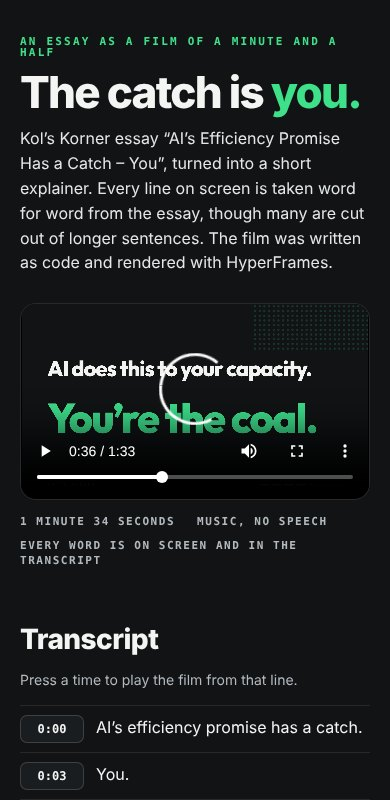
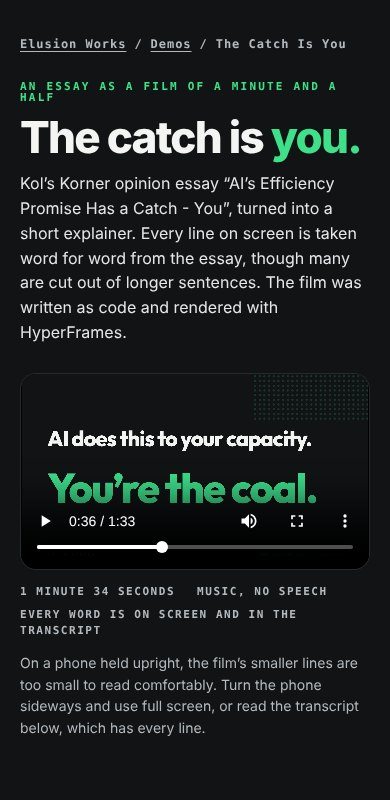
efficiency-catch: act on the outside review
Bring the film on screen before a transcript time plays it (reduced
motion respected, focus kept), say so when the film will not play or
load, add links home, a source link and sharing details, call the
essay an opinion piece and the 1x/2x graphics illustrative, add a note
for phones, tie each transcript line to its own slot in check.mjs,
retake the pictures without the loading spinner, and record the
outside review in REVIEW.md.

Claude-Session: https://claude.ai/code/session_013B6jEDQfd86RBiChYmYX6U

diff --git a/demos/efficiency-catch/index.html b/demos/efficiency-catch/index.html
@@ -9,6 +9,15 @@
 <link rel="icon" href="../../assets/favicon.svg" type="image/svg+xml">
 <!-- Unlisted until release is approved: remove the next line, then add the gallery card and sitemap entry. -->
 <meta name="robots" content="noindex">
+<meta property="og:type" content="video.other">
+<meta property="og:title" content="The Catch Is You: an essay as a short film">
+<meta property="og:description" content="A Kol's Korner opinion essay about AI and burnout, turned into a minute-and-a-half explainer film. With a full transcript.">
+<meta property="og:url" content="https://elusionworks.com/demos/efficiency-catch/">
+<meta property="og:image" content="https://elusionworks.com/demos/efficiency-catch/poster.jpg">
+<meta property="og:image:width" content="1920">
+<meta property="og:image:height" content="1080">
+<meta property="og:image:alt" content="The film's opening title: AI's efficiency promise has a catch. You.">
+<meta name="twitter:card" content="summary_large_image">
 <style>
   :root { --bg:#111315; --panel:#1a1d20; --line:rgba(255,255,255,.16); --ink:#f4f5f3; --muted:#b3babf; --accent:#3fe08a; --accent-ink:#06210f;
     --sans:"Helvetica Neue","Segoe UI",system-ui,-apple-system,Roboto,Arial,sans-serif; --mono:ui-monospace,"SF Mono","Cascadia Mono",Menlo,Consolas,monospace; color-scheme:dark; }
@@ -18,6 +27,11 @@
   main { max-width:1080px; margin:0 auto; padding:56px max(20px,env(safe-area-inset-right)) 96px max(20px,env(safe-area-inset-left)); }
   a { color:var(--ink); text-underline-offset:3px; }
   :focus-visible { outline:2px solid var(--accent); outline-offset:2px; }
+  .crumbs { margin:0 0 28px; font:600 12px/1.4 var(--mono); letter-spacing:.08em; color:var(--muted); }
+  .crumbs a { color:var(--muted); } .crumbs a:hover { color:var(--ink); } .crumbs span { margin:0 8px; }
+  .film { scroll-margin-top:8px; }
+  .oops:not(:empty) { margin:12px 0 0; padding:12px 14px; border:1px solid var(--accent); border-radius:10px; }
+  .oops button { margin-left:10px; }
   .eyebrow { margin:0; font:600 11px/1 var(--mono); letter-spacing:.2em; text-transform:uppercase; color:var(--accent); }
   h1 { margin:14px 0 14px; font-size:clamp(44px,9vw,104px); line-height:.92; font-weight:800; letter-spacing:-.04em; }
   h1 span { color:var(--accent); }
@@ -37,14 +51,16 @@
   .made p, .made li { color:#d7dce0; } .made ul { padding-left:20px; margin:0 0 14px; } .made li { margin:0 0 8px; }
   .note { font-size:14px; color:var(--muted); }
   code { font:13px var(--mono); padding:1px 5px; border-radius:5px; background:rgba(255,255,255,.08); }
+  @media (min-width:821px) { .phone-note { display:none; } }
   @media (max-width:820px) { .cols { grid-template-columns:minmax(0,1fr); gap:8px; } main { padding-top:36px; } .lede { font-size:16px; } }
 </style>
 </head>
 <body>
 <main>
+  <nav class="crumbs" aria-label="Breadcrumb"><a href="../../">Elusion Works</a><span aria-hidden="true">/</span><a href="../">Demos</a><span aria-hidden="true">/</span>The Catch Is You</nav>
   <p class="eyebrow">An essay as a film of a minute and a half</p>
   <h1>The catch is <span>you.</span></h1>
-  <p class="lede">Kol&rsquo;s Korner essay &ldquo;AI&rsquo;s Efficiency Promise Has a Catch &ndash; You&rdquo;, turned into a short explainer. Every line on screen is taken word for word from the essay, though many are cut out of longer sentences. The film was written as code and rendered with HyperFrames.</p>
+  <p class="lede">Kol&rsquo;s Korner opinion essay &ldquo;AI&rsquo;s Efficiency Promise Has a Catch - You&rdquo;, turned into a short explainer. Every line on screen is taken word for word from the essay, though many are cut out of longer sentences. The film was written as code and rendered with HyperFrames.</p>
 
   <div class="film">
     <video id="film" controls playsinline preload="metadata" poster="poster.jpg" width="1920" height="1080" aria-label="The Catch Is You, a film of a minute and a half" aria-describedby="film-note">
@@ -55,6 +71,8 @@
   <ul class="facts" id="film-note">
     <li>1 minute 34 seconds</li><li>Music, no speech</li><li>Every word is on screen and in the transcript</li>
   </ul>
+  <div class="oops" id="oops" role="status"></div>
+  <p class="note phone-note">On a phone held upright, the film&rsquo;s smaller lines are too small to read comfortably. Turn the phone sideways and use full screen, or read the transcript below, which has every line.</p>
 
   <div class="cols">
     <section aria-labelledby="tr-h">
@@ -89,23 +107,34 @@
     <section class="made" aria-labelledby="made-h">
       <h2 id="made-h">How it was made</h2>
       <ul>
-        <li><strong>Words.</strong> Cut down from Kol Tregaskes&rsquo;s essay, published on Kol&rsquo;s Korner in February 2026. Every line is the essay&rsquo;s own wording; nothing was added.</li>
-        <li><strong>Pictures.</strong> Seven scenes, each one a small web page: type, a few drawn shapes and timed moves. No stock footage, no generated images.</li>
+        <li><strong>Words.</strong> Cut down from Kol Tregaskes&rsquo;s opinion essay, published on <a href="https://koltregaskes.com/">Kol&rsquo;s Korner</a> in February 2026. Every line is the essay&rsquo;s own wording; nothing was added. It is one person&rsquo;s argument, not a study.</li>
+        <li><strong>Pictures.</strong> Seven scenes, each one a small web page: type, a few drawn shapes and timed moves. No stock footage, no generated images. The bars and meters marked 1&times; and 2&times; illustrate the essay&rsquo;s own example; they are not measured data.</li>
         <li><strong>Timing.</strong> One hundred beats a minute. Every scene starts on a bar, and the hard lines land on the beat.</li>
         <li><strong>Music.</strong> A quiet backing track made by a short script, so nothing is borrowed and nothing needs a licence.</li>
         <li><strong>Checks.</strong> HyperFrames&rsquo; own checker passes with no errors and no warnings: structure, layout, contrast, reading time and sound.</li>
       </ul>
-      <p class="note">The film&rsquo;s source is in this demo&rsquo;s <code>tools/film</code> folder. Change a line of text there and render it again.</p>
+      <p class="note">The film&rsquo;s source is in this demo&rsquo;s <code>tools/film</code> folder, which is not served with the page: <a href="https://github.com/koltregaskes/elusion-works/tree/main/demos/efficiency-catch/tools/film">see it in the site&rsquo;s repository</a>. Change a line of text there and render it again.</p>
       <p class="note">After a post by Matt Shumer about turning an essay into an explainer video: <a href="https://x.com/mattshumer_/status/2119884041331892403" rel="noopener">see the post</a>. This is an original film.</p>
     </section>
   </div>
 </main>
 <script>
-  // The transcript drives the film: press a time to play from that line, and the line being shown is marked as it plays.
+  // The transcript drives the film: press a time to bring the film into view and play it from that line; the line being shown is marked as it plays.
   (function () {
-    const film = document.getElementById('film'), rows = [...document.querySelectorAll('#lines li')], times = rows.map(r => Number(r.querySelector('.t').dataset.at));
+    const film = document.getElementById('film'), box = film.parentElement, oops = document.getElementById('oops'), rows = [...document.querySelectorAll('#lines li')], times = rows.map(r => Number(r.querySelector('.t').dataset.at));
     const mark = () => { let now = -1; for (let i = 0; i < times.length; i++) if (film.currentTime + 0.05 >= times[i]) now = i; if (!(film.currentTime > 0)) now = -1; rows.forEach((r, i) => { r.classList.toggle('now', i === now); if (i === now) r.setAttribute('aria-current', 'true'); else r.removeAttribute('aria-current'); }); };
-    for (const r of rows) { const b = r.querySelector('.t'); b.disabled = false; b.addEventListener('click', e => { film.currentTime = Number(e.currentTarget.dataset.at); mark(); const p = film.play(); if (p && p.catch) p.catch(() => {}); }); } // the times only become buttons once this script is running
+    // Bring the whole film into view before it plays (or its top, if the screen is shorter than the film). Smooth unless the visitor asks for less motion. Focus stays on the pressed time.
+    const inView = () => { const r = box.getBoundingClientRect(), h = innerHeight; return r.height > h ? Math.abs(r.top - 8) < 3 : r.top >= -1 && r.bottom <= h + 1; };
+    const reveal = () => new Promise(done => { if (inView()) return done(); const smooth = !matchMedia('(prefers-reduced-motion: reduce)').matches, block = box.getBoundingClientRect().height > innerHeight ? 'start' : 'nearest';
+      box.scrollIntoView({ block, behavior: smooth ? 'smooth' : 'auto' }); if (!smooth) return done();
+      // Play when the glide ends; on a slow device that has not finished the glide in 1.2 s, jump the rest of the way, so the film is always on screen before it plays.
+      let timer; const end = () => { clearTimeout(timer); removeEventListener('scrollend', end); if (!inView()) box.scrollIntoView({ block, behavior: 'auto' }); done(); }; addEventListener('scrollend', end); timer = setTimeout(end, 1200); });
+    // If the film will not start or will not load, say so, offer another go, and point to the transcript.
+    let wanted = 0; const problem = msg => { oops.textContent = msg + ' The transcript below has every line. '; const b = document.createElement('button'); b.type = 'button'; b.className = 't'; b.textContent = 'Try again'; b.addEventListener('click', retry); oops.append(b); };
+    const go = () => { const p = film.play(); if (p && p.then) p.then(() => { oops.textContent = ''; }, e => { if (!e || e.name !== 'AbortError') problem('The film did not start.'); }); };
+    function retry() { oops.textContent = ''; if (film.error || film.networkState === 3) { film.addEventListener('loadedmetadata', () => { film.currentTime = wanted; go(); }, { once: true }); film.load(); } else { film.currentTime = wanted; go(); } }
+    const failed = () => problem('The film could not be loaded.'); film.addEventListener('error', failed); film.querySelector('source').addEventListener('error', failed);
+    for (const r of rows) { const b = r.querySelector('.t'); b.disabled = false; b.addEventListener('click', async e => { wanted = Number(e.currentTarget.dataset.at); film.currentTime = wanted; mark(); await reveal(); go(); }); } // the times only become buttons once this script is running
     document.getElementById('how').hidden = false;
     film.addEventListener('timeupdate', mark); film.addEventListener('seeked', mark);
   })();

diff --git a/demos/efficiency-catch/REVIEW.md b/demos/efficiency-catch/REVIEW.md
@@ -18,7 +18,7 @@ Ready for Kol to watch. Not published, not in the gallery, not in the sitemap.
 | Kol's taste: title-card style, comic-book touches, not a glossy generic look | Charcoal ground, white type, one green; a starburst, speech bubbles and dots, used sparingly | `proof.jpg` |
 | Faithful to the essay | All 39 sentences on screen are word-for-word extracts; the check fails otherwise | `tools/check.mjs` |
 
-## Checks run (17 Nov 2026)
+## Checks run (17 Nov 2026, run again after the outside review)
 
 Verified by running, in Node, with ffmpeg, in HyperFrames 0.9.61 and in headless Chromium 153.
 
@@ -26,11 +26,15 @@ Verified by running, in Node, with ffmpeg, in HyperFrames 0.9.61 and in headless
 - `node demos/efficiency-catch/tools/check.mjs`: pass.
   - The file: H.264, 1920 by 1080, 30 frames a second, 93.6 s, 8.9 MB, index at the front; AAC sound at -22.9 LUFS peaking -4.6 dBFS; 15 frames from across the film are neither flat nor repeats.
   - The transcript's 23 lines match the page and the scenes both ways, and each line's time is the moment its words are told to appear in the scene's source.
+  - Each line's words belong to elements told to appear inside that line's own slot (from its time to the next line's), not just somewhere in the scene. A copy with two lines in scene 3 swapped passes the old check and fails this one.
   - Seven scenes start on 2.4 s bars. The six accents are on the beat, and in the finished sound each is at least 3.7 dB above the same beat one bar earlier.
   - All 39 sentences are in the essay word for word.
 - `node demos/efficiency-catch/tools/smoke.mjs <axe.min.js>`: pass.
   - The film loads, is named, and waits to be played. Every time button has its own name and its line as its description.
   - Pressing a time (mouse, keyboard, touch) plays from that line. The line being shown is marked, by colour and for screen readers, at the start, between close lines, and at the end.
+  - Pressing a late time from the bottom of the page brings the film on screen before it starts playing, at 1280 by 800 (keyboard and mouse) and on the three phone sizes (touch); keyboard focus stays on the pressed time. With reduced motion asked for, the page jumps instead of gliding.
+  - If the browser refuses to play, a message with a Try again button appears, the transcript stays, and the message clears once the film plays. If the film file cannot be fetched, the page says so.
+  - The links home, the sharing details and `noindex` are there; the note about small text shows on phones only.
   - Frames decode in the browser and differ from scene to scene.
   - Phones at 400 by 800, 320 by 568 and 740 by 360: nothing off the side; the film keeps its shape.
   - axe-core 4.14.0, WCAG 2.2 A and AA: 0 violations at four sizes. Zero console errors; no request leaves the page.
@@ -42,7 +46,9 @@ Verified by running, in Node, with ffmpeg, in HyperFrames 0.9.61 and in headless
 - **Nobody has watched it at speed or listened to it.** Frames were looked at as stills; the music was checked by measurement. Pace, rhythm and whether the music is pleasant need Kol.
 - **Whether it is what Kol would have cut.** The film keeps the essay's argument and its closing warning, but which lines to keep is a judgement.
 - **Playback on phones and in Safari and Firefox.** Only Chromium was run. The file is plain H.264 and AAC, which every current browser plays.
-- **A real screen reader.** Names, descriptions and the current-line mark were checked in the page, not heard.
+- **A real screen reader.** Names, descriptions, the current-line mark and the problem message were checked in the page, not heard.
+- **How small the film's text really looks on a phone.** The outside review's sizes (about 7 px at 320 px wide, 9 px at 390 px) are worked out from the page's layout, not measured on a device. The page now says so and points to full screen and the transcript; the film itself is unchanged.
+- **The scroll to the film on a real phone or in Safari and Firefox.** Checked in headless Chromium only.
 - **Kol's Taste Lab rating.**
 
 ## Known limits
@@ -76,6 +82,24 @@ A second model (Claude Opus 5.5, fresh context, given the files and the contract
 It confirmed as sound: the file format and index position; no black, frozen or half-drawn frames, including the frame either side of every scene change; no clipping and a clean ending; the music script reproduces the music exactly, so nothing is borrowed; all transcript times against the film itself; two renders identical; nothing autoplays; no outside requests; the page works under the built site's script rules; "no stock footage, no generated images" holds.
 
 Found by my own checks on the way: a leftover call that silently stopped every animation (caught by the checker reporting still frames); a line landing off the beat while the page said it was on it; a claim that every word was the essay's when four lines were not.
+
+## Outside review
+
+ChatGPT in chat mode at Pro, driven by another Claude session at Kol's request, reviewed commit `e3662c0` on 17 November 2026. It read the code, the review notes and the pictures; it did not run the page, watch the film or hear it. It scored the demo 6.5 out of 10 and said HOLD. Claude Fable 5.2 then checked each finding against the code and in a browser, and fixed the ones that were true and could be fixed and checked here.
+
+| Finding | What was done | Held by |
+|---|---|---|
+| The film has not been watched and heard end to end by an independent reviewer able to do so, and the earlier reviewer was also a Claude model | True. Not done: no model here can watch or listen as a person does. It still needs Kol, or another person, on a desktop and a real phone | Not verified, above |
+| Explanatory text is tiny on phones: scene 6's 48 px lines become about 7 px at 320 px wide and 9 px at 390 px | True by the same sum (the film box is 278 px wide at 320, so 48 x 278 / 1920 = 7). The film was not changed: a phone version of the film is a redesign and a new render. The page now says, on phones only, that the smaller lines are hard to read upright and points to full screen sideways and to the transcript | `smoke.mjs` (the note shows on phones, not on desktop) |
+| Pressing a transcript time plays the film off screen | True: the old handler seeked and played without moving the page. Now the film is brought on screen first (smoothly, or by a jump when reduced motion is asked for, or a jump if a slow device has not finished the glide in 1.2 s), and only then plays. Focus stays on the pressed time | `smoke.mjs`: late times by keyboard, mouse and touch at four sizes, with the film's position recorded at the moment it starts playing; reduced motion |
+| The site's CI does not run this demo's film and playback checks | True. Not done: the brief for this pass does not allow changes outside the demo's folder. Wiring `check.mjs` and `smoke.mjs` into CI is for Kol to decide | Not done |
+| `check.mjs` only proves some animation starts at each time and the words are somewhere in the scene | True. Added a tighter check: each line's words must belong to elements told to appear between that line's time and the next line's | `check.mjs`; a copy with two lines swapped passes the old check and fails the new one |
+| The 1x and 2x graphics should be labelled illustrative, the piece presented as an opinion essay, and the original essay linked | True. The page now calls it an opinion essay, says it is one person's argument, says the 1x and 2x bars and meters illustrate the essay's example and are not measured data, and links to Kol's Korner. The essay's own address was not linked because it could not be confirmed from here, so the link goes to the site's home page | Read in `index.html` |
+| Playback failures are swallowed | True: `.catch(() => {})`. Now a refused play or a film that cannot be fetched shows a message, with a Try again button, and points to the transcript | `smoke.mjs`: play refused, then allowed; film file blocked |
+| No links back to Elusion Works or to the film's source; no sharing details | True. Added a breadcrumb (Elusion Works, Demos), a link to the film's source in the site's repository (it will work once this is merged; the `tools` folder is not served), and Open Graph details using the poster as the picture. `noindex` kept | `smoke.mjs` (links, sharing details, `noindex`); site build privacy check |
+| The thumbnail shows a loading spinner | True. `shots.mjs` now waits until the browser has enough of the film before taking pictures; all three pictures were taken again and looked at | The pictures |
+
+Found on the way, not raised by the outside review: the page's lede used an en dash in the essay's title, where the essay uses a hyphen; it is now a hyphen. The film's end credit (scene 7) still has that en dash, burned into the picture; changing it means a new render, which was not done. A smoke check that compares frames from different scenes failed once when the machine was very busy and passed on the runs after; it is the old check, unchanged.
 
 ## Provenance
 

diff --git a/demos/efficiency-catch/README.md b/demos/efficiency-catch/README.md
@@ -57,7 +57,7 @@ node demos/efficiency-catch/tools/check.mjs
 PW_CHROMIUM=/opt/pw-browsers/chromium node demos/efficiency-catch/tools/smoke.mjs node_modules/axe-core/axe.min.js
 ```
 
-The first reads the film file (format, length, loudness, frames), checks the transcript against the page and the scenes both ways, checks each line's time against the moment its words are told to appear, measures the six accents in the sound, and checks every sentence against the essay. The second drives the page in a browser on its own small server (`tools/serve.mjs`), because jumping about in a video needs a server that answers partial requests; GitHub Pages does.
+The first reads the film file (format, length, loudness, frames), checks the transcript against the page and the scenes both ways, checks each line's time against the moment its words are told to appear and that its words appear before the next line's time, measures the six accents in the sound, and checks every sentence against the essay. The second drives the page in a browser (pressing times, bringing the film on screen before it plays, the message when the film will not play or load, phones and reduced motion, axe) on its own small server (`tools/serve.mjs`), because jumping about in a video needs a server that answers partial requests; GitHub Pages does.
 
 ## What is borrowed
 
@@ -72,4 +72,4 @@ The idea follows a post by Matt Shumer about turning an essay into an explainer 
 
 ## Status
 
-Not published. The page carries `noindex`, is not in the demo gallery and is not in the sitemap. See `REVIEW.md` for what was checked and what was not.
+Draft, unlisted. The page carries `noindex`, is not in the demo gallery and is not in the sitemap. The site deploys whatever is merged, so merging this would put the page on the live site at its own address (/demos/efficiency-catch/): unlisted, but reachable by anyone with the link. See `REVIEW.md` for what was checked and what was not, including an outside review.
